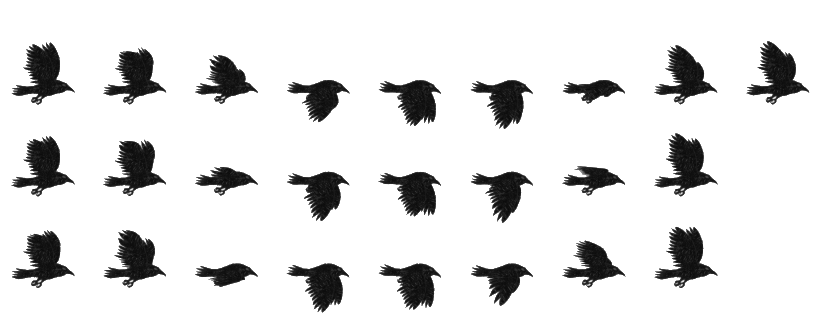
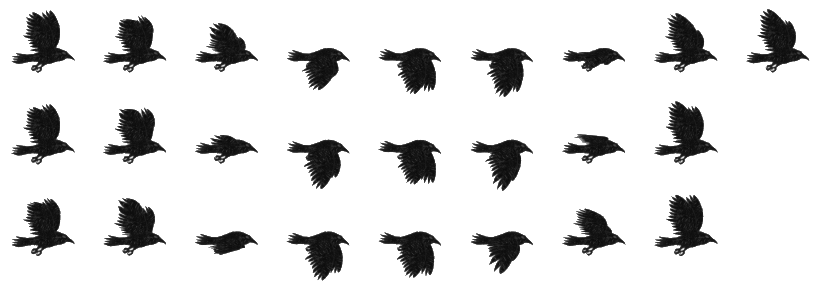
spider

diff --git a/sprites/sprites.py b/sprites/sprites.py
@@ -192,9 +192,9 @@ class BirdLikeSprite(pygame.sprite.Sprite):
     def __init__(self, birds, SCALE):
         Sprite.__init__(self)
 
-        BIRD_SPRITESHEET = SpriteSheet("sources/imgs/bird2.png")
-        SPRITE_WIDTH = 94
-        SPRITE_HEIGHT = 90
+        BIRD_SPRITESHEET = SpriteSheet("sources/imgs/bird.png")
+        SPRITE_WIDTH = 91
+        SPRITE_HEIGHT = 96
 
         self.birds = birds
         self.SCALE = SCALE
@@ -217,6 +217,66 @@ class BirdLikeSprite(pygame.sprite.Sprite):
         self.rect = self.image.get_rect()
         self.mask = pygame.mask.from_surface(self.image)
         BirdLikeSprite.__bird_sprite = self
+
+    def _next_image(self, bird_id, left):
+        if left:
+            move_images = self.left_move_images
+        else:
+            move_images = self.right_move_images
+
+        next_index = self.img_indexes[bird_id]
+        next_image = move_images[next_index]
+        self.img_indexes[bird_id] = (next_index + 1) % len(move_images)
+        return next_image
+
+    def update(self):
+        # TODO move randomly
+        pass
+
+    def draw(self, mask):
+        self.mask = pygame.mask.from_surface(self.image)
+        bird_maskSurf = self.mask.to_surface()
+        bird_maskSurf.set_colorkey((0, 0, 0, 0))
+        olist = self.mask.outline()
+        pygame.draw.polygon(bird_maskSurf, (0, 0, 255), olist, 0)
+
+        for i, bird in enumerate(self.birds):
+            mask.blit(
+                self._next_image(i, False),
+                (bird.pos[0], bird.pos[1]),
+            )
+
+class SpiderLikeSprite(pygame.sprite.Sprite):
+    __spider_sprite = None
+
+    def __init__(self, birds, SCALE):
+        Sprite.__init__(self)
+
+        SPIDER_SPRITESHEET = SpriteSheet("sources/imgs/spider.png")
+        SPRITE_WIDTH = 127
+        SPRITE_HEIGHT = 124
+
+        self.birds = birds
+        self.SCALE = SCALE
+
+        self.left_move_images = [(i, 0) for i in range(13)]
+        self.left_move_images = [pygame.transform.scale(
+            SPIDER_SPRITESHEET.image_at(
+                (a * SPRITE_WIDTH, b * SPRITE_HEIGHT, SPRITE_WIDTH, SPRITE_HEIGHT), -1
+            ).convert_alpha(),
+            (SCALE, SCALE),
+        )
+            for a, b in self.left_move_images
+        ]
+
+        self.right_move_images = [pygame.transform.flip(mi, True, False) for mi in self.left_move_images]
+
+        self.img_indexes = [0] * len(self.birds)
+
+        self.image = self.left_move_images[0]
+        self.rect = self.image.get_rect()
+        self.mask = pygame.mask.from_surface(self.image)
+        SpiderLikeSprite.__bird_sprite = self
 
     def _next_image(self, bird_id, left):
         if left:

diff --git a/main.py b/main.py
@@ -4,9 +4,9 @@ from pygame.sprite import *
 from pygame.mixer import *
 import random
 
-from models.game_objects import Player, BirdLike, Spawner
+from models.game_objects import Player, BirdLike, Spawner, SpiderLike
 from menu.menu import Menu
-from sprites.sprites import PlayerSprite, BirdLikeSprite
+from sprites.sprites import PlayerSprite, BirdLikeSprite, SpiderLikeSprite
 from wave import Wave
 
 
@@ -61,10 +61,16 @@ if __name__ == "__main__":
     spawner = Spawner()
     birds = [spawner.spawn_monster(bird) for _ in range(10)]
     bird_sprite = BirdLikeSprite(birds, SCALE)
+
+    spider = SpiderLike(stop_width=WIDTH, stop_height=HEIGHT)
+    spiders = [spawner.spawn_monster(spider) for _ in range(10)]
+    spider_sprite = SpiderLikeSprite(spiders, SCALE)
+
     all_sprites = sprite.Group()
     all_sprites.add(sprite_object)
     all_sprites.add(player_sprite)
     all_sprites.add(bird_sprite)
+    all_sprites.add(spider_sprite)
 
     clock = pygame.time.Clock()
 
@@ -139,6 +145,7 @@ if __name__ == "__main__":
             all_sprites.update()
             all_sprites.draw(screen)
             bird_sprite.draw(mask)
+            spider_sprite.draw(mask)
 
             # draw transparent circle and update display
             screen.blit(mask, (0, 0))

diff --git a/models/game_objects.py b/models/game_objects.py
@@ -53,6 +53,13 @@ class SpiderLike(Monster):
     def __init__(self, start_width=0, stop_width=0, start_height=0, stop_height=0):
         super().__init__(start_width, stop_width, start_height, stop_height)
 
+    def spawn(self):
+        self.pos = [
+            random.randrange(self.start_width, self.stop_width),
+            500,
+        ]
+        return self.pos
+
     def clone(self) -> Monster:
         return SpiderLike(self.start_width, self.stop_width, self.start_height, self.stop_height)
 
